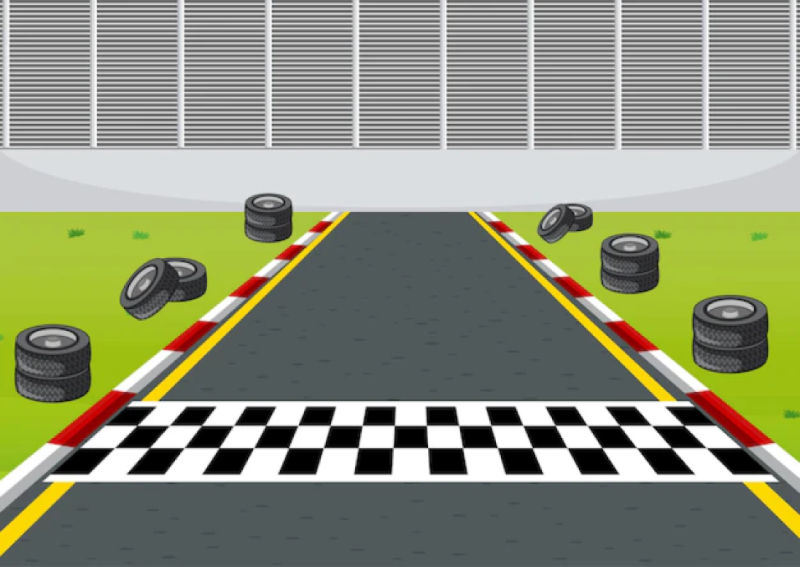
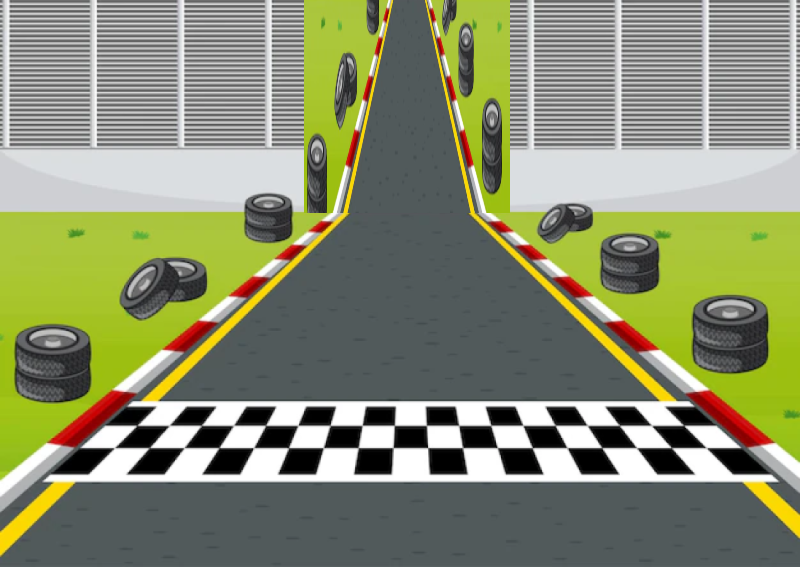
alterando png pista e localização e velocidade dos carros na pista

Changed region(s): [[0.375, 0.0, 0.6562, 0.3898]]

diff --git a/jogo.py b/jogo.py
@@ -7,8 +7,10 @@ pygame.init()
 #o pos_x 
 x = 450
 y = 300
-pos_x = 100
+pos_x = 300
 pos_y = 300
+pos_y_a = 300
+pos_y_c = 300
 velocidade = 10
 velocidade_outros = 8
 fundo = pygame.image.load("pista.png")
@@ -49,15 +51,19 @@ while janela_aberta :
             x +=velocidade   
 
     if  (pos_y <= -200):
-        pos_y = 600
+         pos_y = 600
+         pos_y_a = 600 
+         pos_y_c = 600 
 
-    pos_y  -= velocidade_outros     
+    pos_y  -= velocidade_outros 
+    pos_y_a -= velocidade_outros + 2
+    pos_y_c -= velocidade_outros + 5    
 
     janela.blit(fundo,(0,0))  
     janela.blit(carro,(x,y))
-    janela.blit(jipe, (pos_x + 300, pos_y))
-    janela.blit(jipe1, (pos_x + 240, pos_y))
-    janela.blit(carro4, (pos_x +200, pos_y))
+    janela.blit(jipe, (pos_x + 100, pos_y))
+    janela.blit(jipe1, (pos_x + 40, pos_y_a))
+    janela.blit(carro4, (pos_x + 10, pos_y_c))
 
 
     pygame.display.update()
